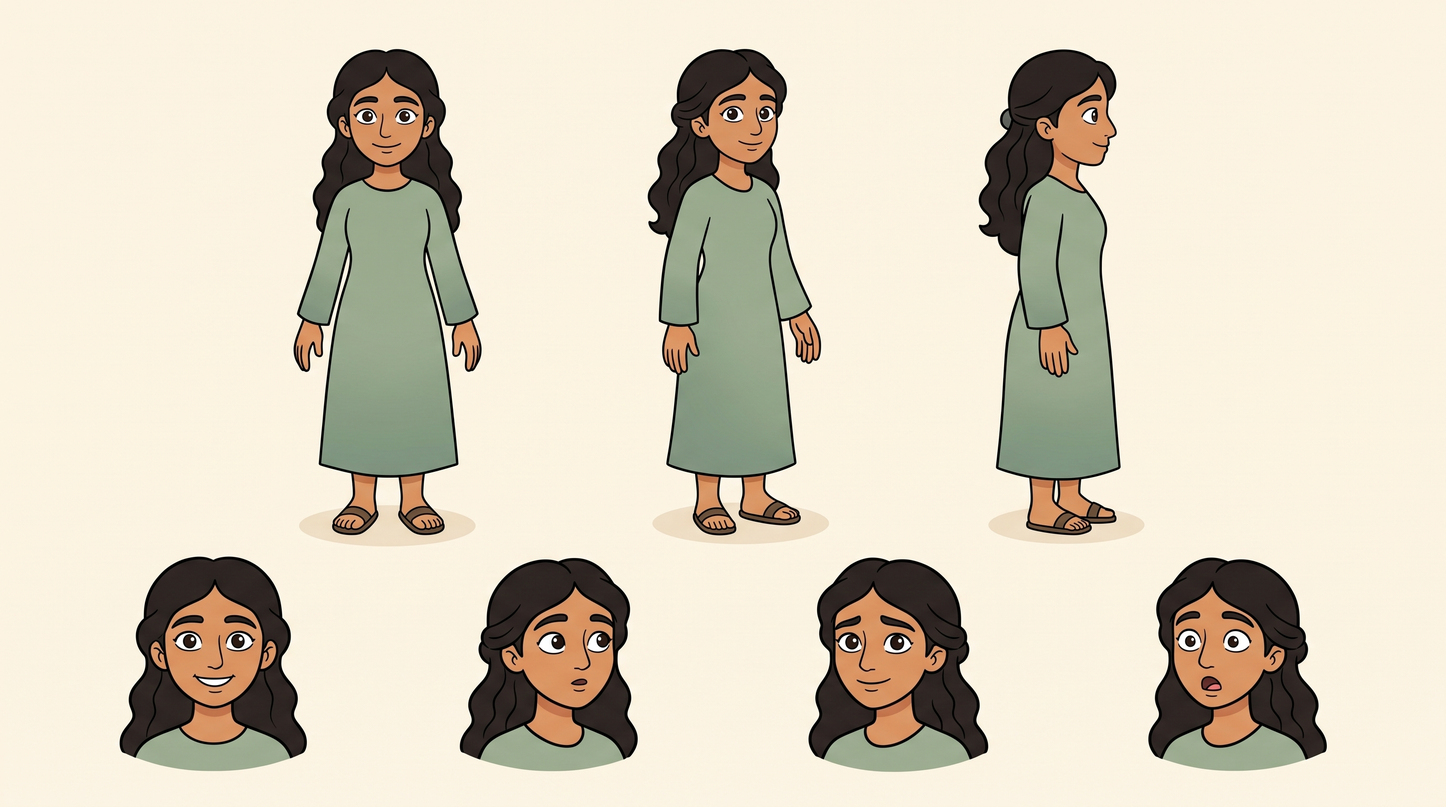
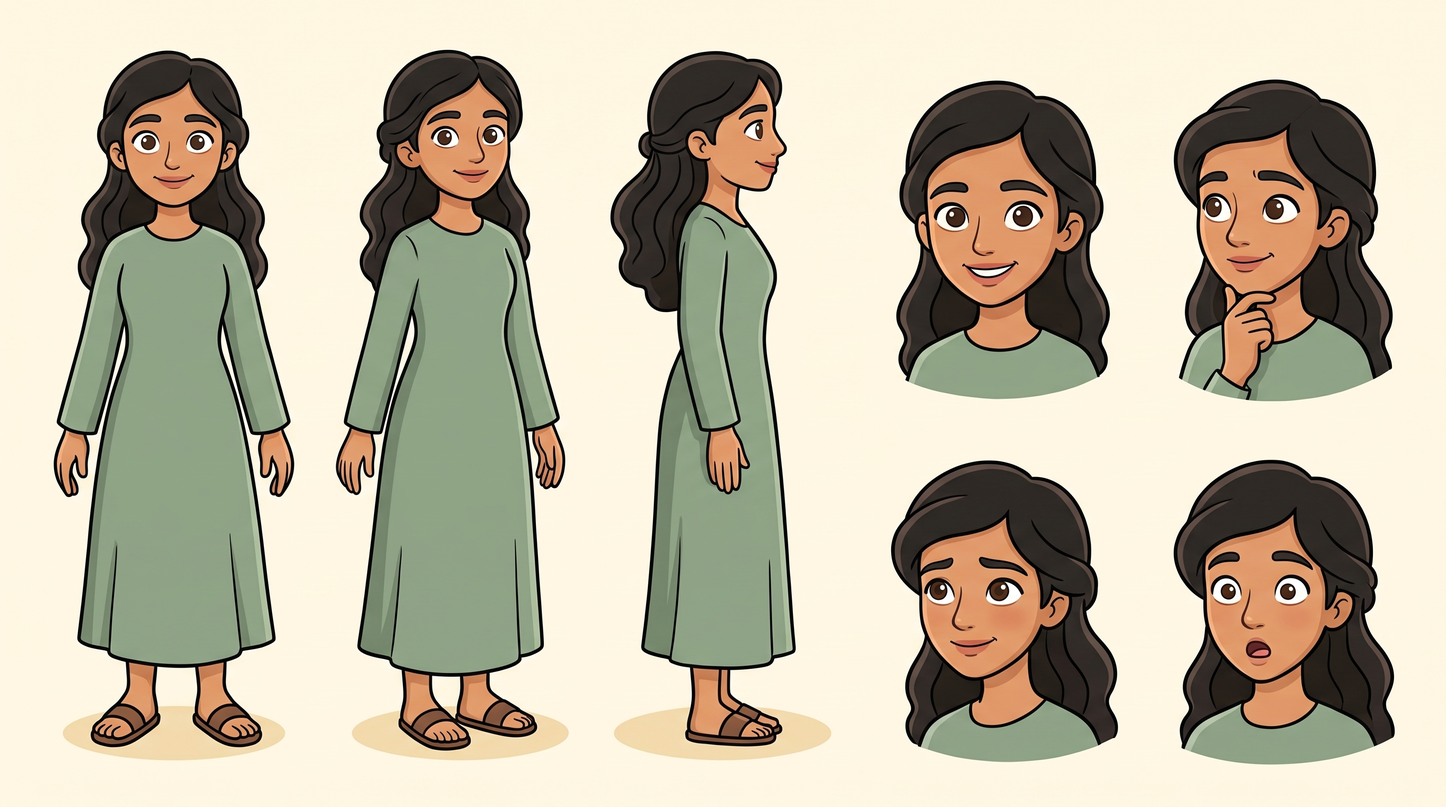
Chava identity v3 (adult proportions); fix version numbering after accept
v1/v2 read as a young girl beside adult Adam. Added an explicit adult anchor and
generated v3 (1 call, $0.10). next_version now counts the accepted version
(recorded as identity_version in character.yaml), so new candidates don't reuse
its number.

diff --git a/src/generate_references.py b/src/generate_references.py
@@ -97,11 +97,35 @@ def character_folder(key: str, library_dir=None) -> Path:
     return Path(library_dir or character_library.LIBRARY_DIR) / character_library.resolve_key(key, library_dir)
 
 
+def accepted_version(folder: Path) -> int:
+    """The version number that was promoted to identity.png (from `identity_version:` in character.yaml), or 0."""
+    yaml_path = folder / "character.yaml"
+    if yaml_path.exists():
+        match = re.search(r"^identity_version:\s*(\d+)", yaml_path.read_text(encoding="utf-8"), flags=re.M)
+        if match:
+            return int(match.group(1))
+    return 0
+
+
 def next_version(folder: Path) -> int:
-    """1 + the highest identity_vN.png already in the folder or its alternates/ (so numbers never repeat)."""
+    """
+    1 + the highest version number already used, so numbers never repeat. Counts identity_vN.png in the
+    folder and alternates/, AND the accepted version (it was renamed to identity.png, so its file name is gone).
+    """
     numbers = [int(m.group(1)) for p in list(folder.glob("identity_v*.png")) + list(folder.glob("alternates/identity_v*.png"))
                if (m := VERSION_PATTERN.search(p.name))]
+    numbers.append(accepted_version(folder))
     return max(numbers, default=0) + 1
+
+
+def set_yaml_identity_version(yaml_path: Path, number: int) -> None:
+    """Record which version became identity.png (adds the line under `identity:` if missing)."""
+    text = yaml_path.read_text(encoding="utf-8")
+    if re.search(r"^identity_version:", text, flags=re.M):
+        text = re.sub(r"^identity_version:.*$", f"identity_version: {number}", text, count=1, flags=re.M)
+    else:
+        text = re.sub(r"^(identity:.*)$", rf"\1\nidentity_version: {number}", text, count=1, flags=re.M)
+    yaml_path.write_text(text, encoding="utf-8")
 
 
 def generate_identity_versions(key: str, api_key: str, versions: int = 2, style_plate: str = DEFAULT_STYLE_PLATE,
@@ -177,6 +201,7 @@ def accept_version(key: str, version, library_dir=None) -> Path:
         print(f"  {other.name} -> alternates/")
 
     set_yaml_identity(folder / "character.yaml", "identity.png")
+    set_yaml_identity_version(folder / "character.yaml", number)
     print(f"{key}: identity_v{number}.png is now identity.png")
     return current
 

diff --git a/tests/test_generate_references_versions.py b/tests/test_generate_references_versions.py
@@ -1,0 +1,22 @@
+"""next_version must not reuse the number of a version that was promoted to identity.png."""
+import sys
+from pathlib import Path
+
+sys.path.insert(0, str(Path(__file__).resolve().parent.parent / "src"))
+import generate_references as gr  # noqa: E402
+
+
+def test_next_version_counts_accepted_version(tmp_path):
+    folder = tmp_path / "chava"
+    (folder / "alternates").mkdir(parents=True)
+    (folder / "alternates" / "identity_v1.png").write_bytes(b"x")
+    (folder / "identity.png").write_bytes(b"x")  # this used to be identity_v2.png
+    (folder / "character.yaml").write_text("key: chava\nidentity: identity.png\nidentity_version: 2\n")
+    assert gr.next_version(folder) == 3
+
+
+def test_set_identity_version_adds_line(tmp_path):
+    yaml_path = tmp_path / "character.yaml"
+    yaml_path.write_text("key: adam\nidentity: identity.png\nname_en: Adam\n")
+    gr.set_yaml_identity_version(yaml_path, 2)
+    assert "identity: identity.png\nidentity_version: 2\n" in yaml_path.read_text()
